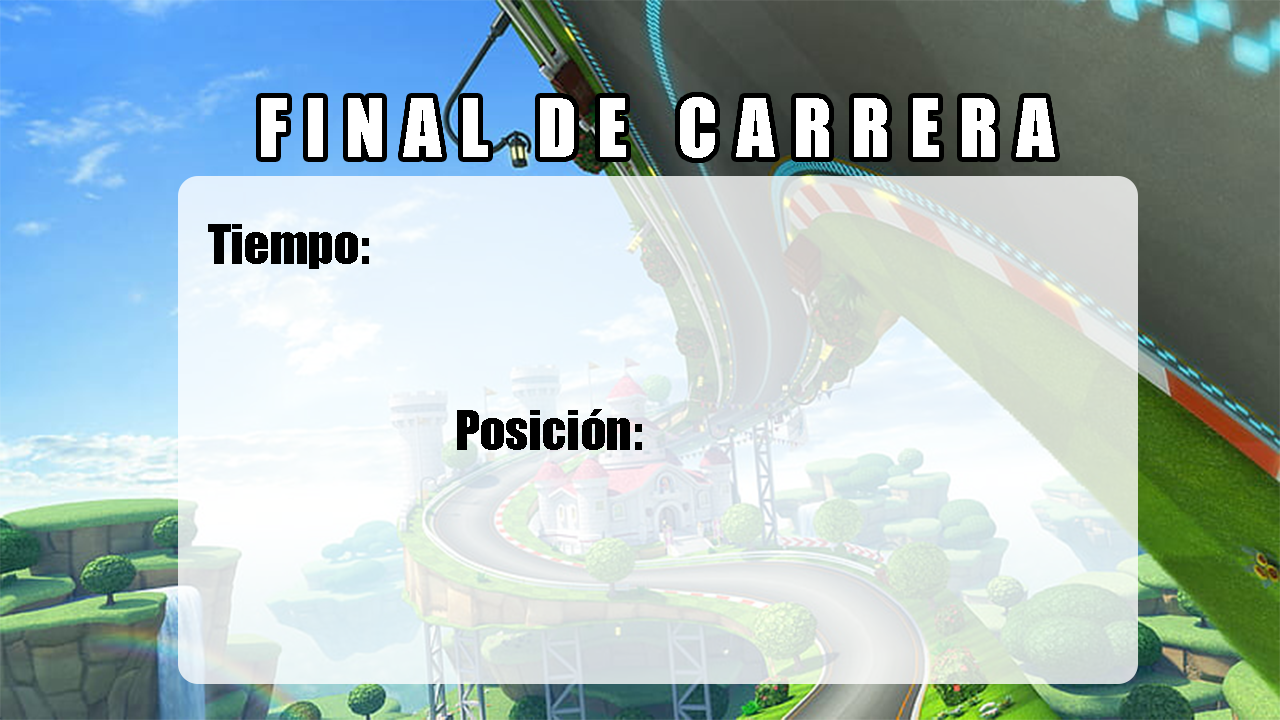
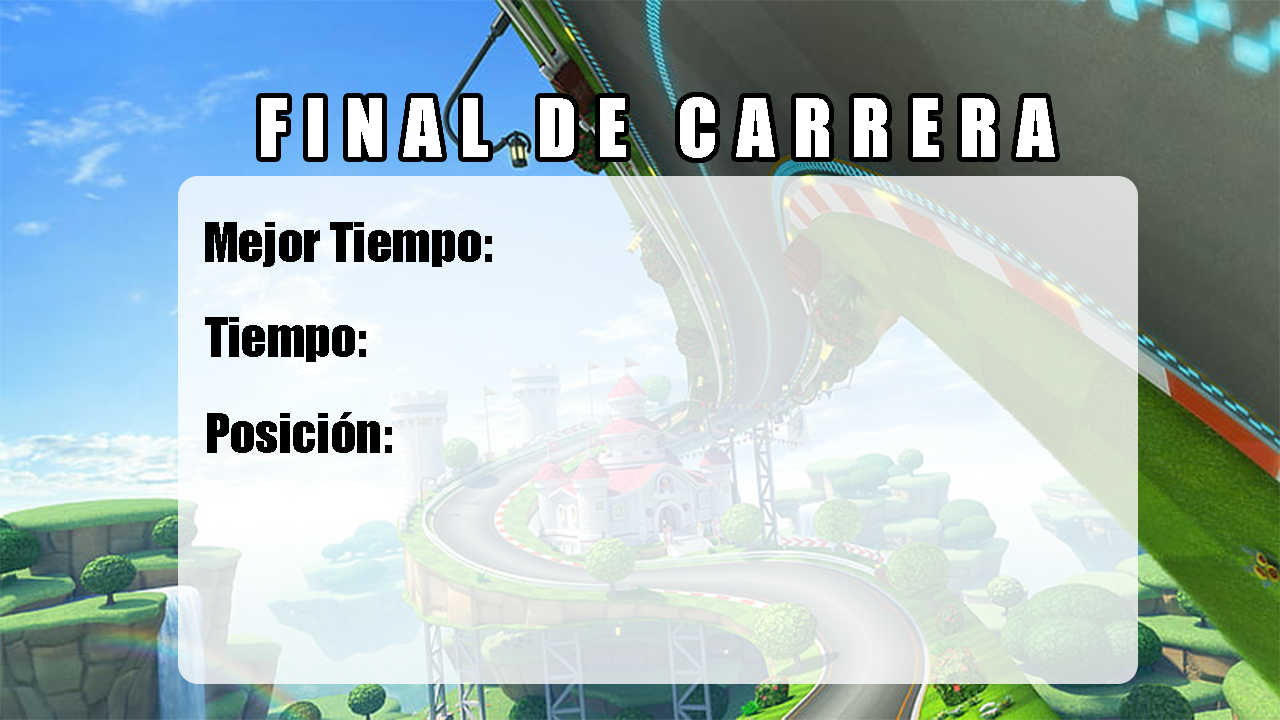
New End Screens with best time
Added the new backgrounds for end screens and adjusted the coordinates for the displayed numbers

diff --git a/Source/ModuleGame.cpp b/Source/ModuleGame.cpp
@@ -682,11 +682,11 @@ void ModuleGame::RaceEnd() {
 		DrawTexture(endRaceTwoPlayers, 0, 0, WHITE);
 
 
-		DrawTextEx(gamTex, TextFormat("%.2f", PlayerOneFinalTime), { SCREEN_WIDTH / 2 - 20 , 250 }, endFontSize, spacing, color);
-		DrawTextEx(gamTex, TextFormat("%.2f", PlayerTwoFinalTime), { SCREEN_WIDTH / 2 - 50, 320 }, endFontSize, spacing, color);
+		DrawTextEx(gamTex, TextFormat("%.2f", PlayerOneFinalTime), { SCREEN_WIDTH / 2 - 60 , 325 }, endFontSize, spacing, color);
+		DrawTextEx(gamTex, TextFormat("%.2f", PlayerTwoFinalTime), { SCREEN_WIDTH / 2 - 60, 395 }, endFontSize, spacing, color);
 
-		DrawTextEx(gamTex, TextFormat("%d", PlayerOneFinalPos), { SCREEN_WIDTH / 2 + 120, 430 }, endFontSize, spacing, color);
-		DrawTextEx(gamTex, TextFormat("%d", PlayerTwoFinalPos), { SCREEN_WIDTH / 2 + 120, 500 }, endFontSize, spacing, color);
+		DrawTextEx(gamTex, TextFormat("%d", PlayerOneFinalPos), { SCREEN_WIDTH / 2 - 35, 510 }, endFontSize, spacing, color);
+		DrawTextEx(gamTex, TextFormat("%d", PlayerTwoFinalPos), { SCREEN_WIDTH / 2 - 35, 575 }, endFontSize, spacing, color);
 		if (PlayerOneFinalTime <= bestTime) {
 			xmlFile.child("best").attribute("time").set_value(PlayerOneFinalTime);
 			xmlFile.save_file("ranking.xml");
@@ -698,8 +698,8 @@ void ModuleGame::RaceEnd() {
 	}
 	else {
 		DrawTexture(endRaceOnePlayer, 0, 0, WHITE);
-		DrawTextEx(gamTex, TextFormat("%.2f", PlayerOneFinalTime), { SCREEN_WIDTH / 2 - 260, 250 }, endFontSize, (int)spacing, color);
-		DrawTextEx(gamTex, TextFormat("%d", PlayerOneFinalPos), { SCREEN_WIDTH / 2 + 20, 430 }, endFontSize, (int)spacing, color);
+		DrawTextEx(gamTex, TextFormat("%.2f", PlayerOneFinalTime), { SCREEN_WIDTH / 2 - 260, 325 }, endFontSize, (int)spacing, color);
+		DrawTextEx(gamTex, TextFormat("%d", PlayerOneFinalPos), { SCREEN_WIDTH / 2 - 240, 420 }, endFontSize, (int)spacing, color);
 		if (PlayerOneFinalTime <= bestTime) {
 			xmlFile.child("best").attribute("time").set_value(PlayerOneFinalTime);
 			xmlFile.save_file("ranking.xml");
@@ -707,7 +707,7 @@ void ModuleGame::RaceEnd() {
 	}
 
 
-	DrawTextEx(gamTex, TextFormat("%.2f", bestTime), { SCREEN_WIDTH / 2 + 20, 550 }, endFontSize, (int)spacing, color);
+	DrawTextEx(gamTex, TextFormat("%.2f", bestTime), { SCREEN_WIDTH / 2 - 140, 225 }, endFontSize, (int)spacing, color);
 }
 
 bool ModuleGame::OnGuiMouseClickEvent(GuiControl* control) {
